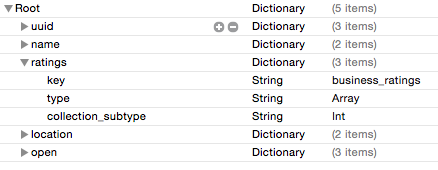
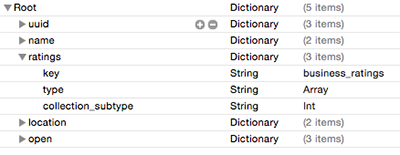
Resized the images for the README, commiting to ensure they are reflected accordingly

diff --git a/README.md b/README.md
@@ -74,7 +74,7 @@ After receiving the data dictionary, the next stage is to model the response int
 **Business.plist**
 <br/>
 
-![alt tag](/readme_assets/basic data_types_business.png?raw=true  =423x347)
+![alt tag](/readme_assets/basic data_types_business.png?raw=true)
 <br/>
 For each property that US2MapperKit will generate in the final model object, first define a dictionary within the plist to represent the property. For each property at minimum we must define a **key** and a **type** entry. The **key** maps to the value of the response dictionary, and **type** defines the Swift datatype for the property.
 
@@ -127,7 +127,7 @@ If a property is non-optional, such as the **uuid** property for the Business mo
 **Business.plist**
 <br/>
 
-![alt tag](/readme_assets/non_optional_business.png?raw=true  =427x190)
+![alt tag](/readme_assets/non_optional_business.png?raw=true)
 <br/>
 
 Once the model mapping has been updated, perform a build **(⌘-B)**, and the changes should be reflect accordingly in the internal `_Business.swift` class.
@@ -164,7 +164,7 @@ When there is need to fallback to a default value for optional or non-optional p
 **Business.plist**
 <br/>
 
-![alt tag](/readme_assets/default_value_example.png?raw=true  =214x105)
+![alt tag](/readme_assets/default_value_example.png?raw=true)
 <br/>
 
 
@@ -195,7 +195,7 @@ First create a model mapping for the Location object
 **Location.plist**
 <br/>
 
-![alt tag](/readme_assets/location_plist.png?raw=true  =397x134)
+![alt tag](/readme_assets/location_plist.png?raw=true)
 <br/>
 
 Once the model mapping for a location generated a `Location` object, and it has been added to the project, update the Business object mapping by defining a location property typed as **Location**
@@ -203,7 +203,7 @@ Once the model mapping for a location generated a `Location` object, and it has 
 **Business.plist**
 <br/>
 
-![alt tag](/readme_assets/business_location_example.png?raw=true  =446x172)
+![alt tag](/readme_assets/business_location_example.png?raw=true)
 <br/>
 
 
@@ -232,7 +232,7 @@ First update a model mapping for the Business object, by defining setting the **
 **Business.plist**
 <br/>
 
-![alt tag](/readme_assets/ratings_array_example.png?raw=true  =426x192)
+![alt tag](/readme_assets/ratings_array_example.png?raw=true)
 <br/>
 
 When parsing the data for a `Business` object, US2MapperKit will create a parsed ratings `Array<Int>`, and will assign the resulting value to the ratings property of the `Business` instance before returning it.
@@ -266,7 +266,7 @@ Although the location in the dictionary is formatted to be handled as custom Loc
 **Business.plist**
 <br/>
 
-![alt tag](/readme_assets/nested_mapping_example.png?raw=true  =238x102)
+![alt tag](/readme_assets/nested_mapping_example.png?raw=true)
 <br/>
 
 Using the **dot** notation per example above we can easily map the values as needed with ease. 
@@ -322,7 +322,7 @@ To implement the transformer as part of the model mapping, observe how the **key
 **User.plist**
 <br/>
 
-![alt tag](/readme_assets/transformer_fullname_example.png?raw=true  =456x182)
+![alt tag](/readme_assets/transformer_fullname_example.png?raw=true)
 <br/>
 
 Note: The order of the keys in the model mapping determines the order of the input values in the `func transformValues(inputValues : [AnyObject]?) -> AnyObject?`. 
@@ -421,7 +421,7 @@ It is not always feasible to know why a a failable initializer may have failed t
 To enable the Debug mode, add the  **-DUS2MAPPER_DEBUG** flag to the **Other Swift Flags** in your build settings as follows.
 
 <br>
-![alt tag](/readme_assets/debug_flag.png?raw=true  =446x60)
+![alt tag](/readme_assets/debug_flag.png?raw=true)
 <br/>
 
 The resulting output in the console will resemble the following:
